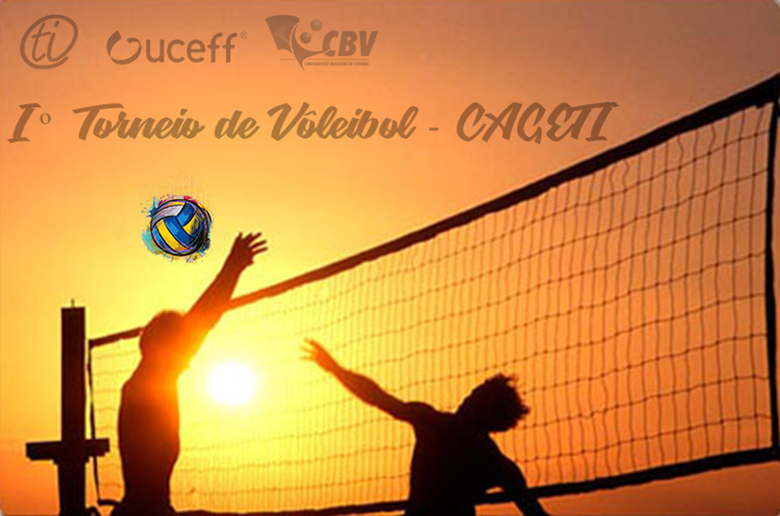
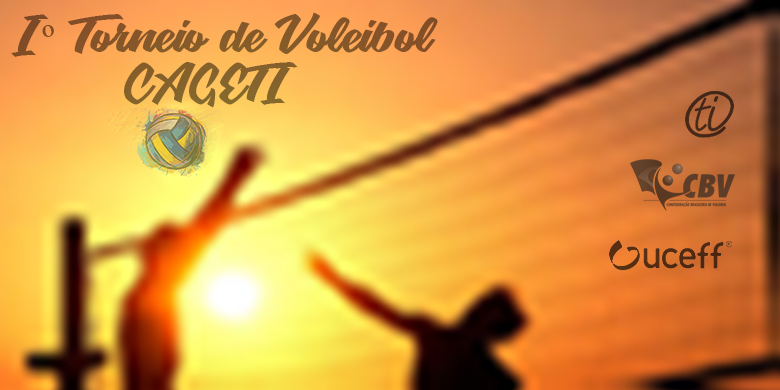
dsv-evento alteracao na img

diff --git a/evento/css/main.css b/evento/css/main.css
@@ -35,8 +35,7 @@ body{
 }
 
 .cabecalho img{
-    width: 1024px;
-    height: 660px;
+    width: 100%;
 }
 
 .menu {
